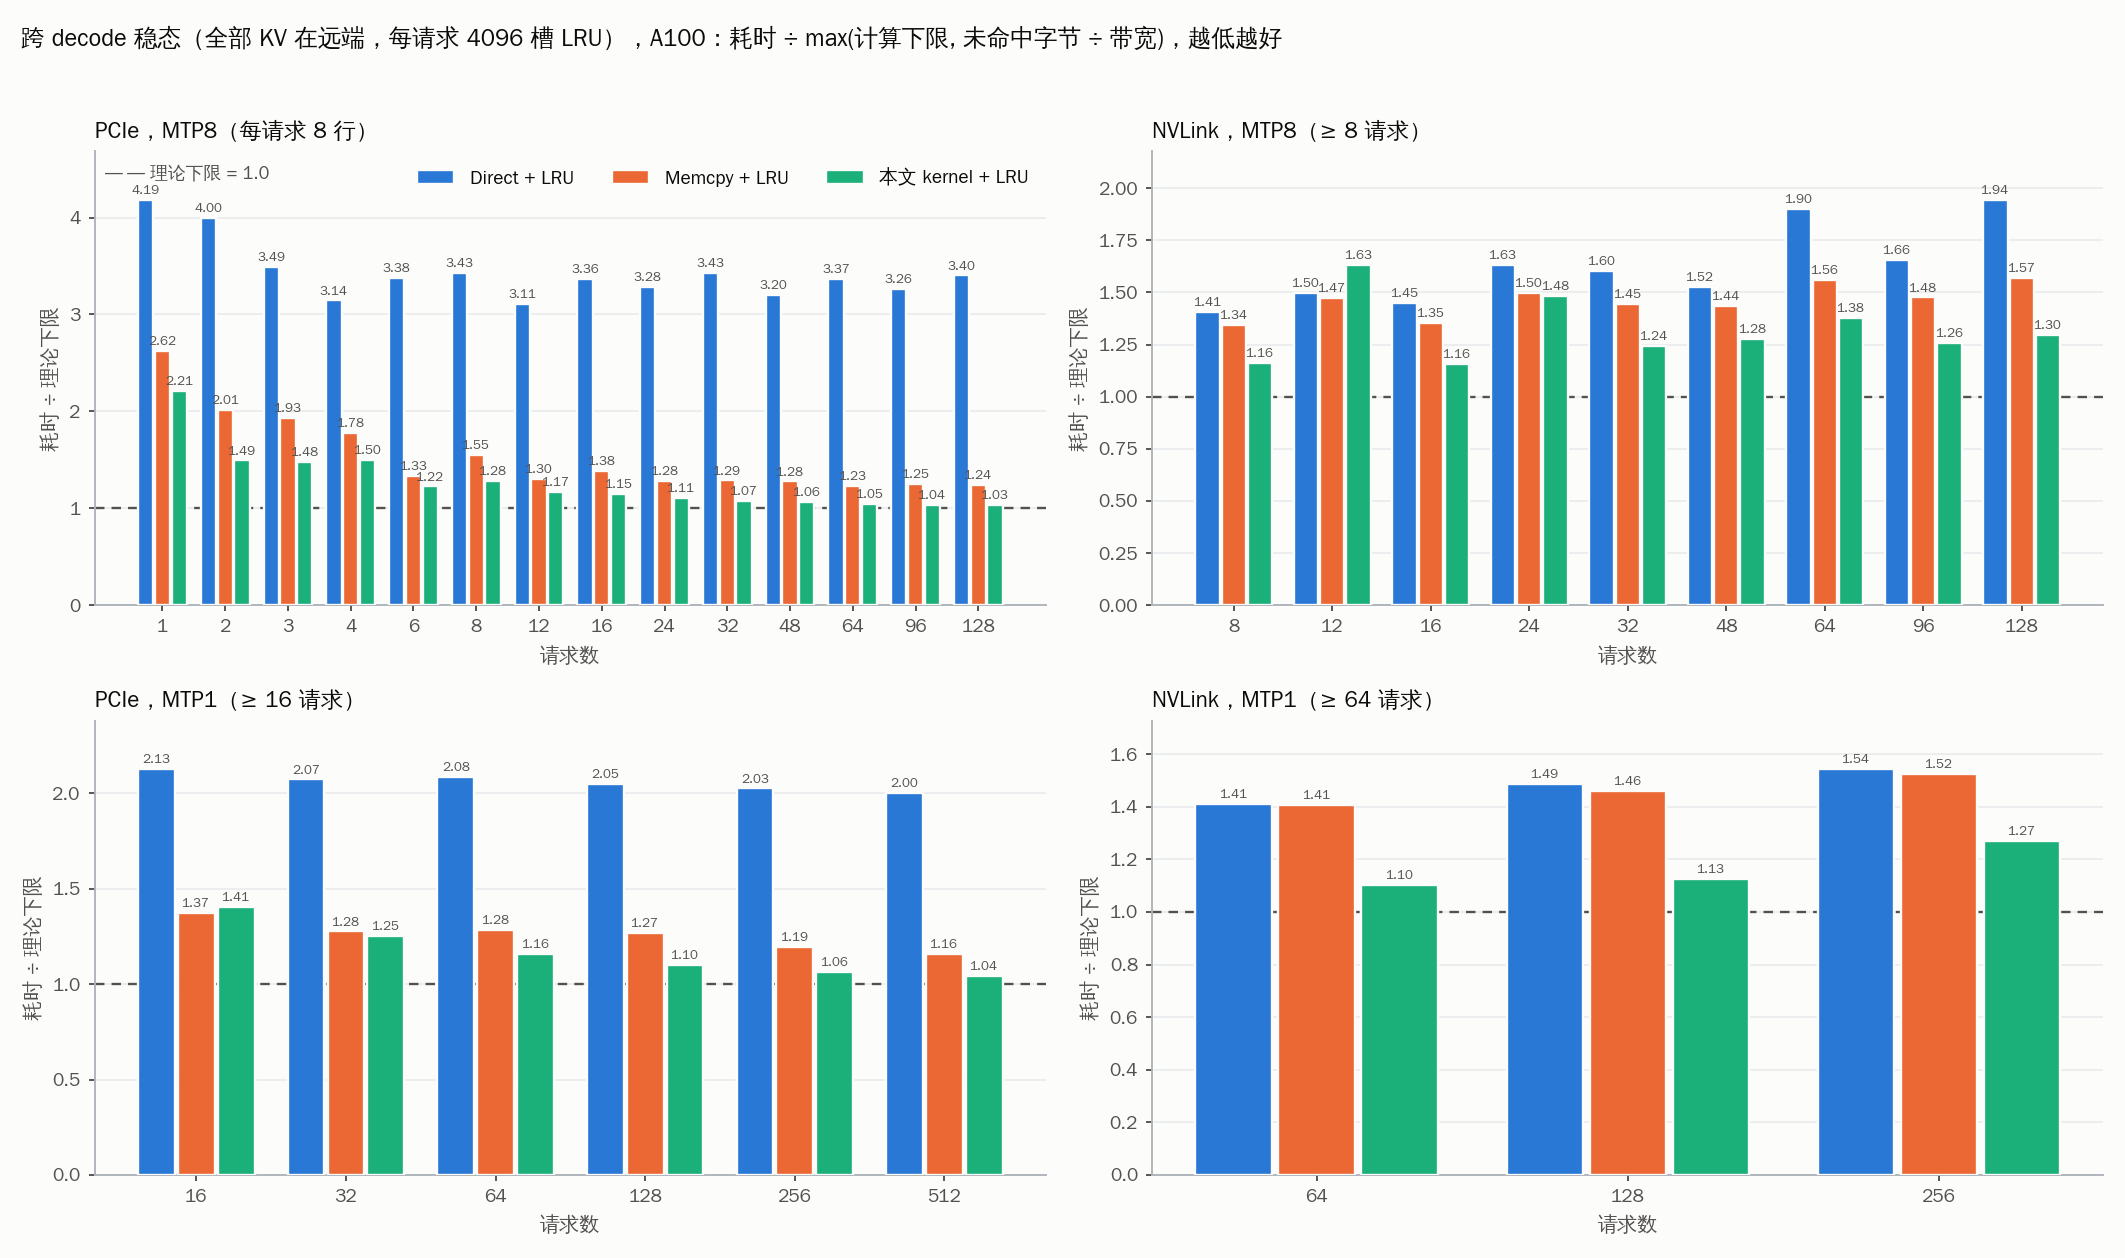
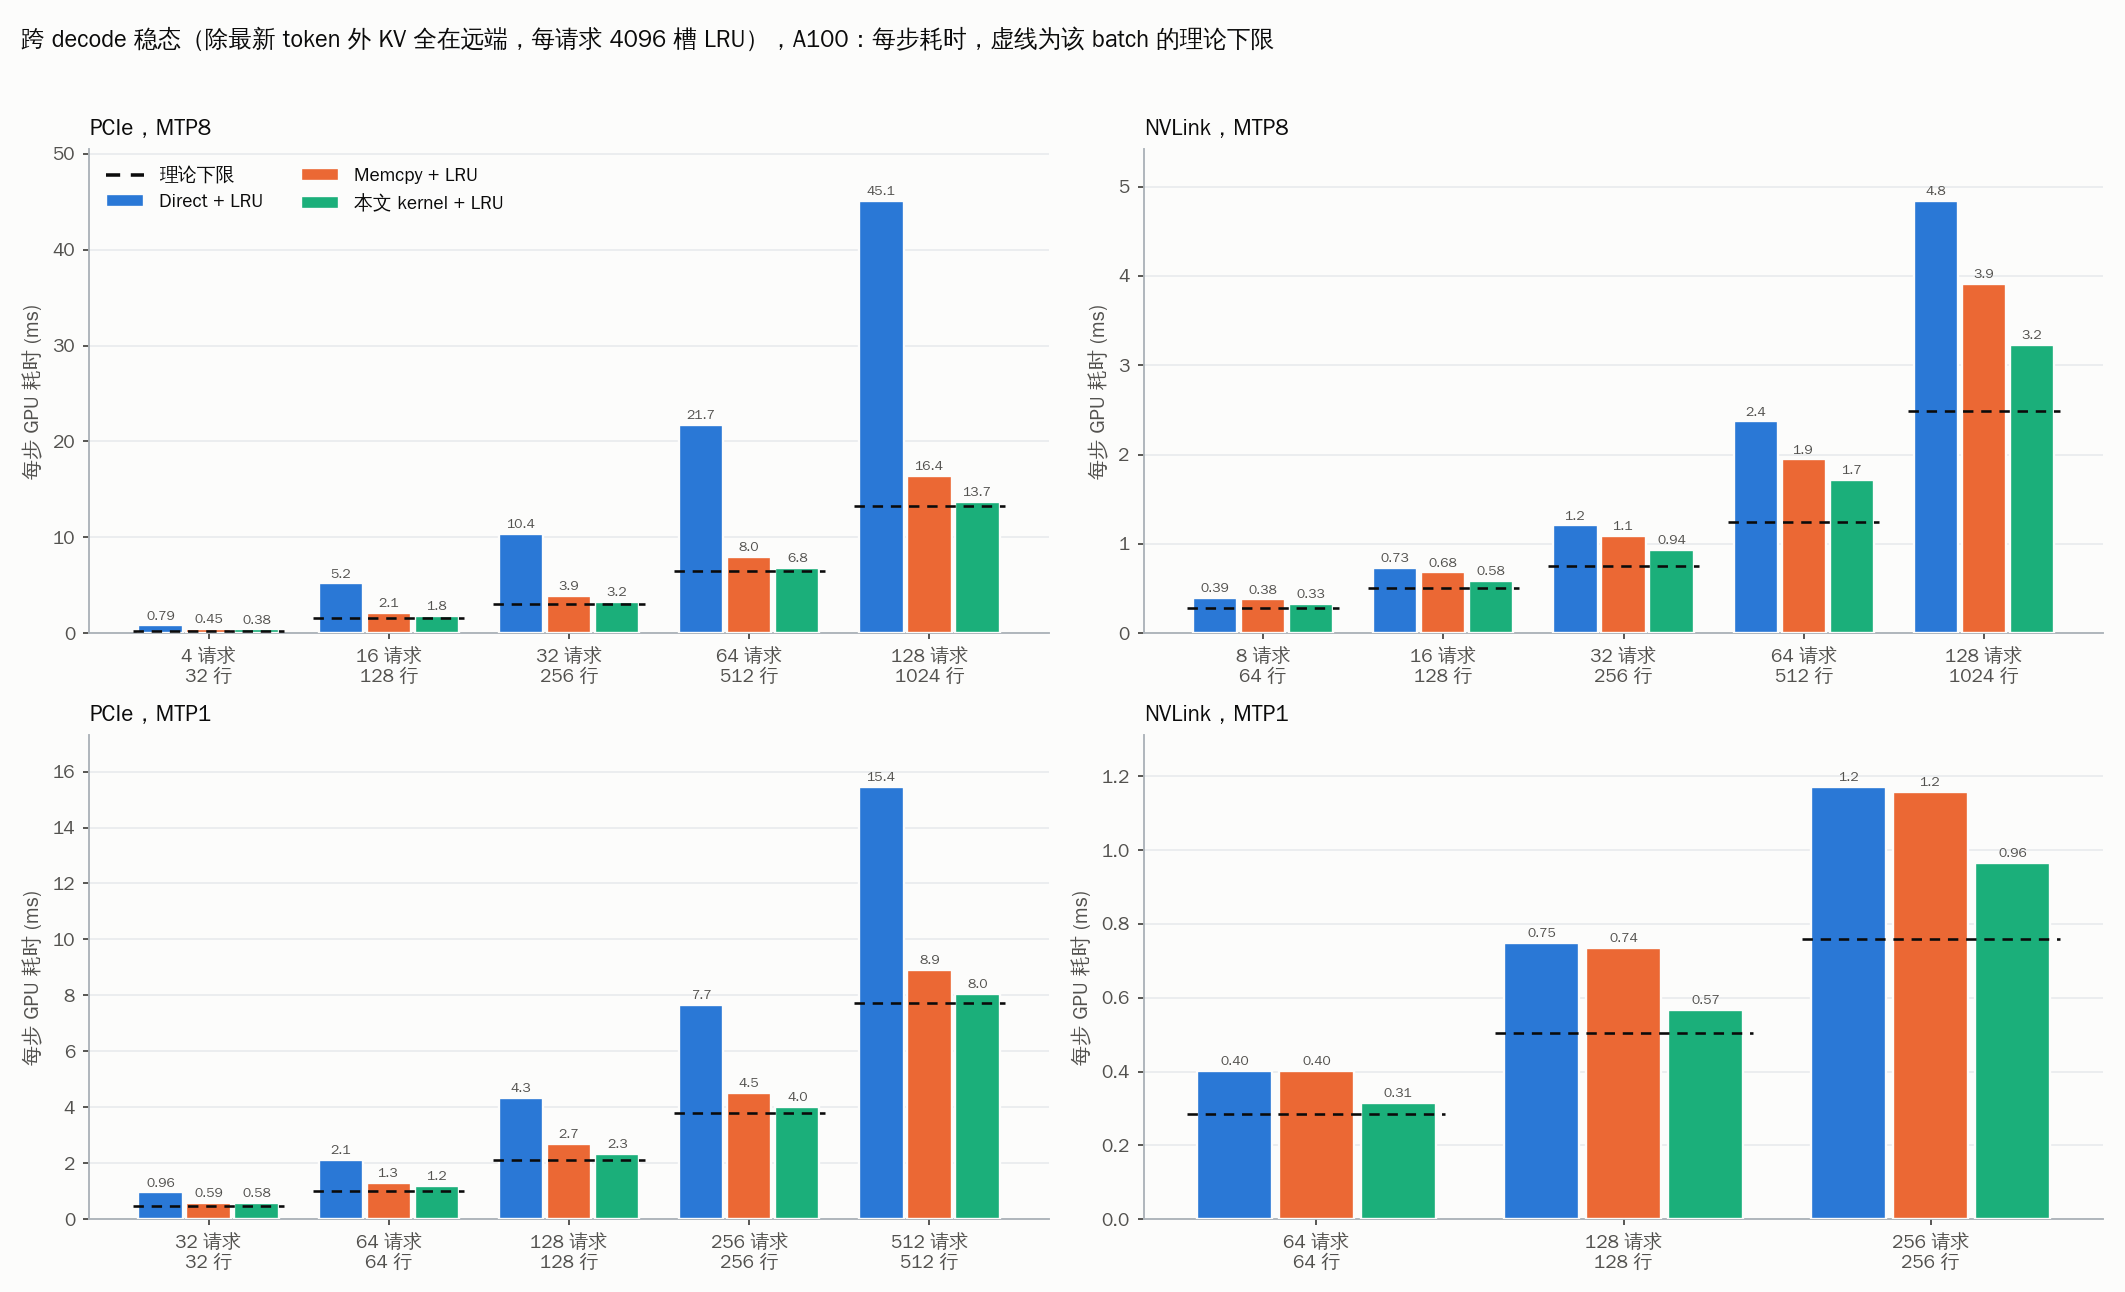
docs(mla): report: design section (UVA+VMM, dedup, fused LRU, HiSparse contrast), absolute-time rounds figure, self-contained

diff --git a/temp/report_lru/plot.py b/temp/report_lru/plot.py
@@ -100,54 +100,32 @@ def rounds_rows(name, ours, min_requests=0):
 
 def fig_rounds():
     panels = [
-        ("rounds_host_mtp8.json", "ours_stage", 0, "PCIe，MTP8（每请求 8 行）"),
-        ("rounds_peer_mtp8.json", "ours_inplace", 8, "NVLink，MTP8（≥ 8 请求）"),
-        ("rounds_host_mtp1.json", "ours_stage", 16, "PCIe，MTP1（≥ 16 请求）"),
-        ("rounds_peer_mtp1.json", "ours_inplace", 64, "NVLink，MTP1（≥ 64 请求）"),
+        ("rounds_host_mtp8.json", "ours_stage", (4, 16, 32, 64, 128), "PCIe，MTP8"),
+        ("rounds_peer_mtp8.json", "ours_inplace", (8, 16, 32, 64, 128), "NVLink，MTP8"),
+        ("rounds_host_mtp1.json", "ours_stage", (32, 64, 128, 256, 512), "PCIe，MTP1"),
+        ("rounds_peer_mtp1.json", "ours_inplace", (64, 128, 256), "NVLink，MTP1"),
     ]
-    fig, axes = plt.subplots(2, 2, figsize=(12.5, 7.4))
-    for axis, (name, ours, lo, title) in zip(axes.flat, panels):
-        rows = rounds_rows(name, ours, lo)
-        labels = [f"{r['req']}" for r in rows]
-        grouped(axis, labels, [
-            ("Direct + LRU", BLUE, [r["direct"] / r["floor"] for r in rows]),
-            ("Memcpy + LRU", ORANGE, [r["memcpy"] / r["floor"] for r in rows]),
-            ("本文 kernel + LRU", GREEN, [r["ours"] / r["floor"] for r in rows]),
-        ], lambda v: f"{v:.2f}", fontsize=5.6)
-        axis.axhline(1.0, color=INK2, linestyle=(0, (4, 3)), linewidth=1.0, zorder=2)
+    fig, axes = plt.subplots(2, 2, figsize=(12.5, 7.6))
+    for axis, (name, ours, pick, title) in zip(axes.flat, panels):
+        rows = [r for r in rounds_rows(name, ours) if r["req"] in pick]
+        grouped(axis, [f"{r['req']} 请求\n{r['rows']} 行" for r in rows], [
+            ("Direct + LRU", BLUE, [r["direct"] / 1e3 for r in rows]),
+            ("Memcpy + LRU", ORANGE, [r["memcpy"] / 1e3 for r in rows]),
+            ("本文 kernel + LRU", GREEN, [r["ours"] / 1e3 for r in rows]),
+        ], lambda v: f"{v:.1f}" if v >= 1 else f"{v:.2f}", fontsize=5.8)
+        for i, r in enumerate(rows):
+            axis.plot([i - 0.42, i + 0.42], [r["floor"] / 1e3] * 2, color=INK, linestyle=(0, (4, 3)),
+                      linewidth=1.1, zorder=5)
         axis.set_title(title, loc="left")
-        axis.set_xlabel("请求数")
-        dress(axis, "耗时 ÷ 理论下限")
-        axis.set_ylim(0, max(max(r["direct"], r["memcpy"], r["ours"]) / r["floor"] for r in rows) * 1.12)
-    axes[0][0].legend(loc="upper right", frameon=False, ncol=3)
-    axes[0][0].text(0.01, 0.97, "— — 理论下限 = 1.0", transform=axes[0][0].transAxes, fontsize=7.5, color=INK2, va="top")
-    fig.suptitle("跨 decode 稳态（全部 KV 在远端，每请求 4096 槽 LRU），A100：耗时 ÷ max(计算下限, 未命中字节 ÷ 带宽)，越低越好",
+        dress(axis, "每步 GPU 耗时 (ms)")
+        top = max(max(r["direct"], r["memcpy"], r["ours"]) for r in rows) / 1e3
+        axis.set_ylim(0, top * 1.12)
+    axes[0][0].plot([], [], color=INK, linestyle=(0, (4, 3)), label="理论下限")
+    axes[0][0].legend(loc="upper left", frameon=False, ncol=2)
+    fig.suptitle("跨 decode 稳态（除最新 token 外 KV 全在远端，每请求 4096 槽 LRU），A100：每步耗时，虚线为该 batch 的理论下限",
                  x=0.01, ha="left", fontsize=10)
     fig.tight_layout(rect=(0, 0, 1, 0.96))
     fig.savefig(OUT / "rounds_vs_floor.png", dpi=170)
-    plt.close(fig)
-
-
-def fig_rounds_abs():
-    rows = rounds_rows("rounds_host_mtp8.json", "ours_stage")
-    pick = [r for r in rows if r["req"] in (16, 32, 64, 96, 128)]
-    fig, axis = plt.subplots(figsize=(10, 4.2))
-    grouped(axis, [f"{r['req']} 请求\n{r['rows']} 行" for r in pick], [
-        ("Direct + LRU", BLUE, [r["direct"] / 1e3 for r in pick]),
-        ("Memcpy + LRU", ORANGE, [r["memcpy"] / 1e3 for r in pick]),
-        ("本文 kernel + LRU", GREEN, [r["ours"] / 1e3 for r in pick]),
-    ], lambda v: f"{v:.1f}", fontsize=6.8)
-    for i, r in enumerate(pick):
-        axis.plot([i - 0.42, i + 0.42], [r["floor"] / 1e3] * 2, color=INK, linestyle=(0, (4, 3)), linewidth=1.1, zorder=5)
-    axis.plot([], [], color=INK, linestyle=(0, (4, 3)), label="理论下限")
-    axis.legend(loc="upper left", frameon=False, ncol=4)
-    dress(axis, "每步 GPU 耗时 (ms)")
-    fl = [r["ours"] / r["floor"] for r in pick]
-    sp = [1 - r["ours"] / r["memcpy"] for r in pick]
-    axis.set_title(f"PCIe，MTP8，跨 decode 稳态：本文 kernel 贴着理论下限（{min(fl):.2f}～{max(fl):.2f}×），"
-                   f"比 Memcpy + LRU 快 {min(sp):.0%}～{max(sp):.0%}", loc="left")
-    fig.tight_layout()
-    fig.savefig(OUT / "rounds_pcie_mtp8_ms.png", dpi=170)
     plt.close(fig)
 
 
@@ -264,7 +242,6 @@ def fig_capacity():
 if __name__ == "__main__":
     style()
     fig_rounds()
-    fig_rounds_abs()
     fig_single_step()
     fig_lru_gain()
     fig_capacity()
